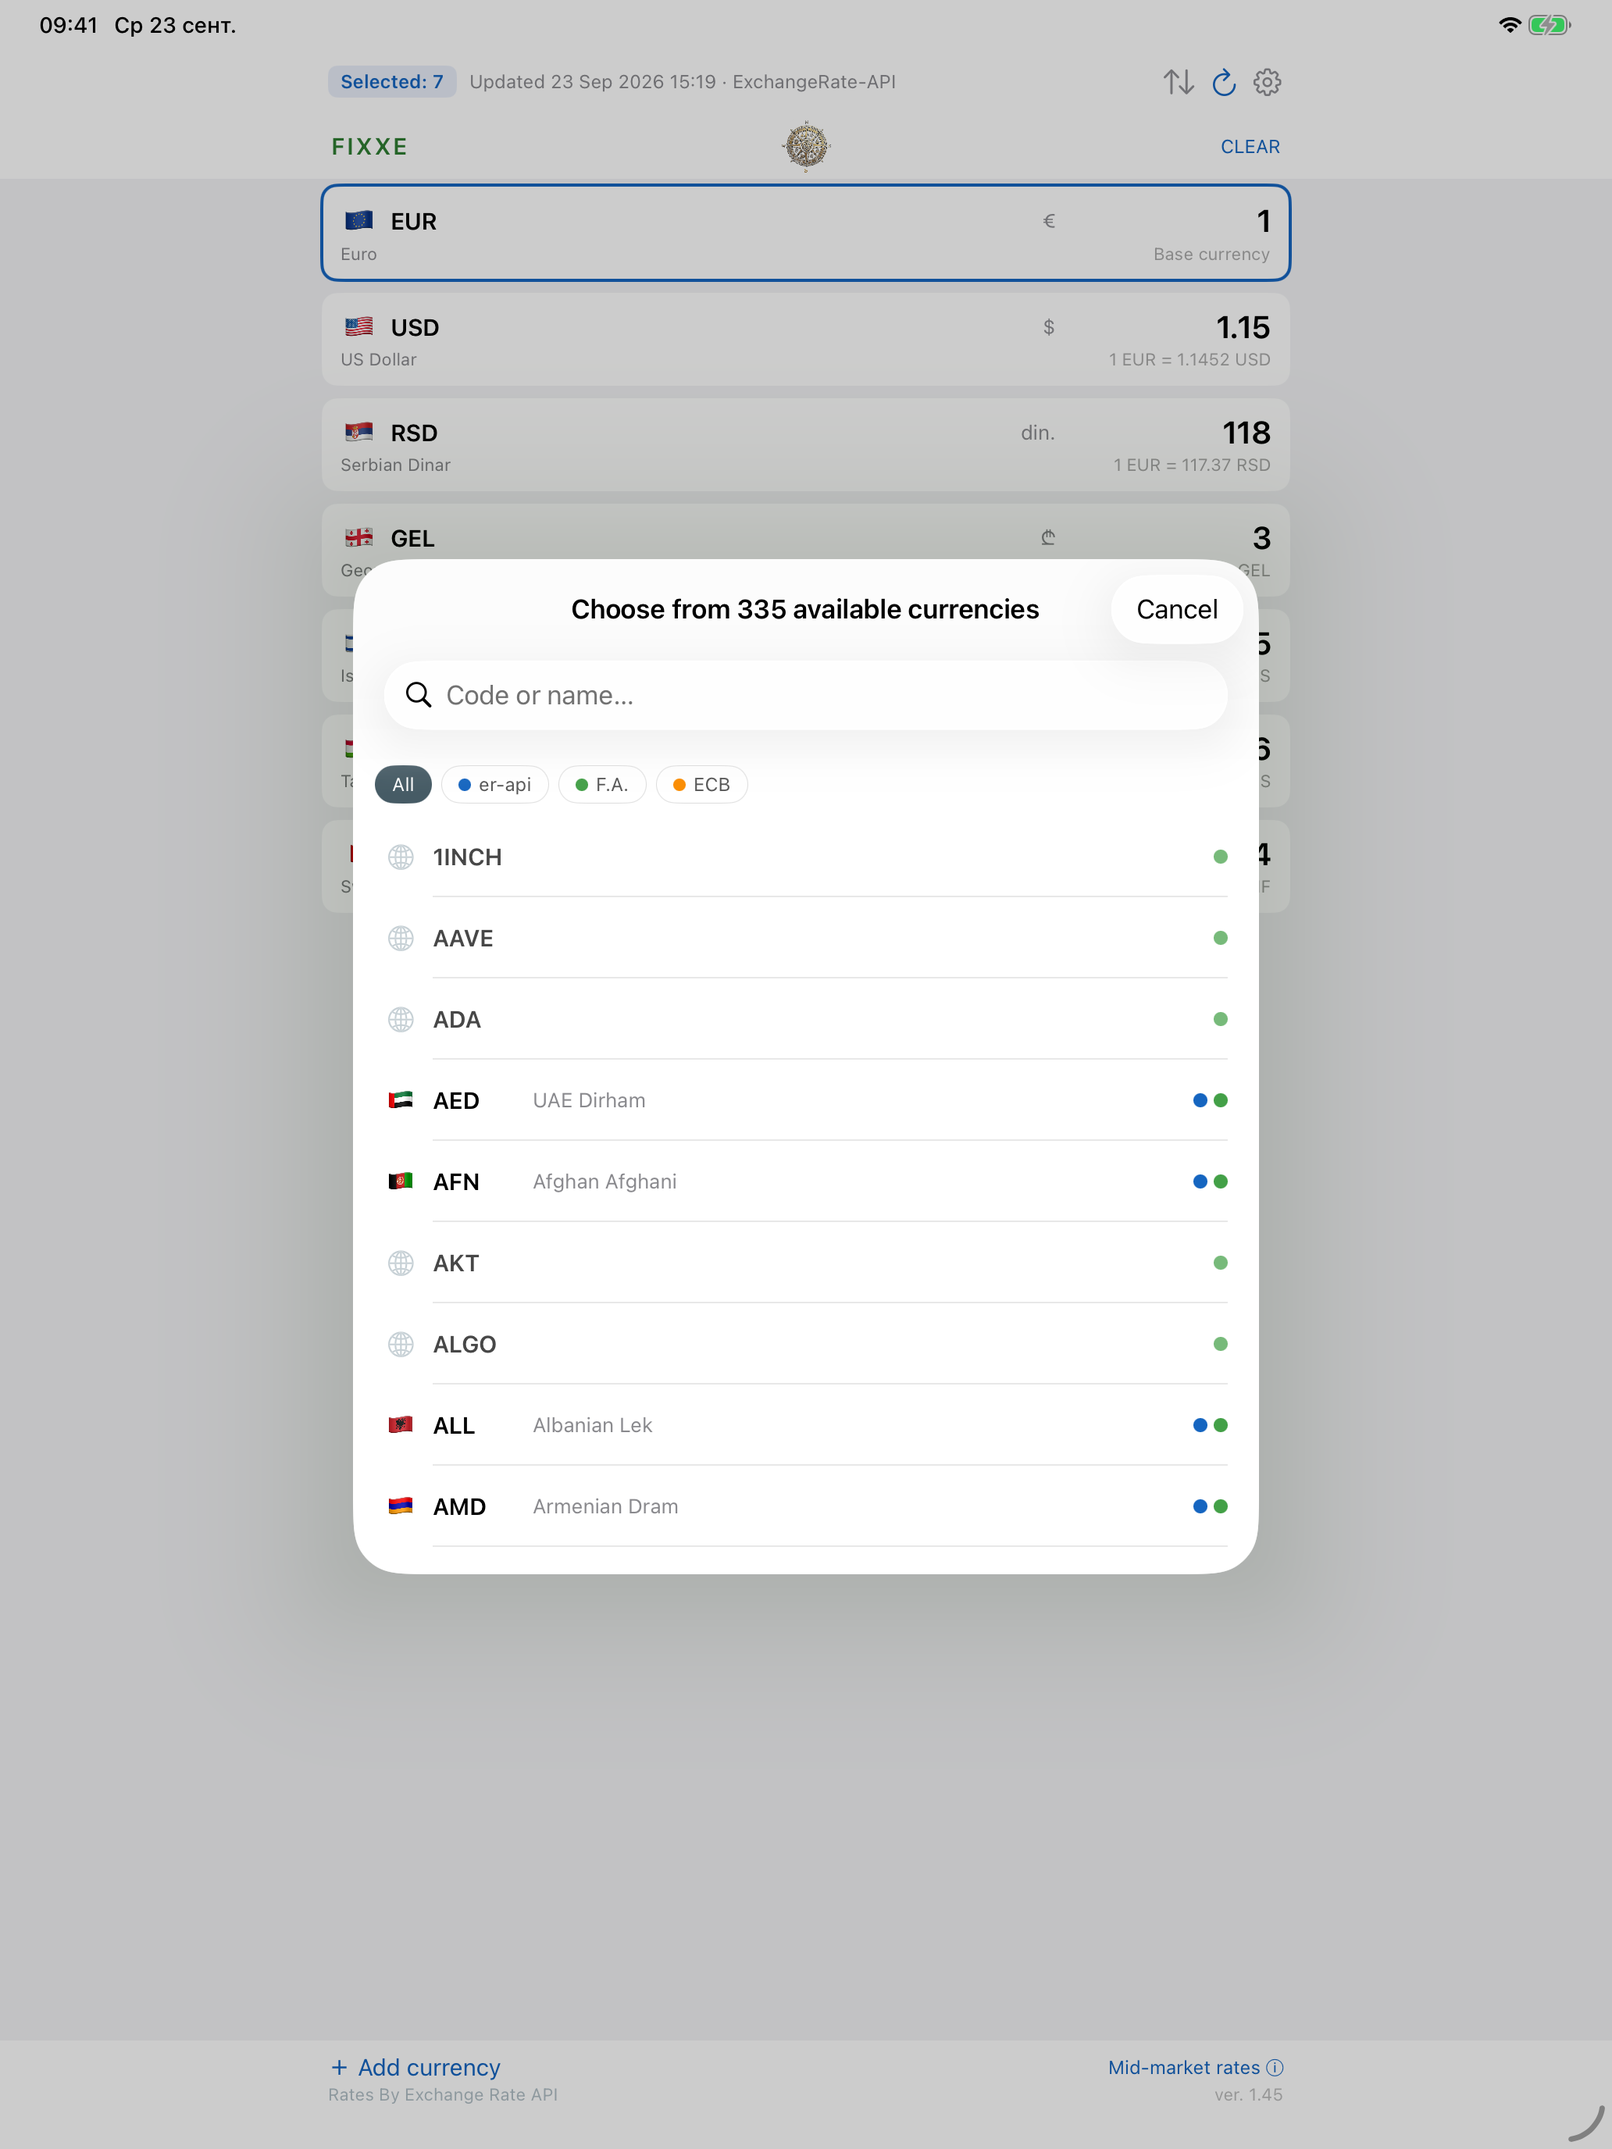
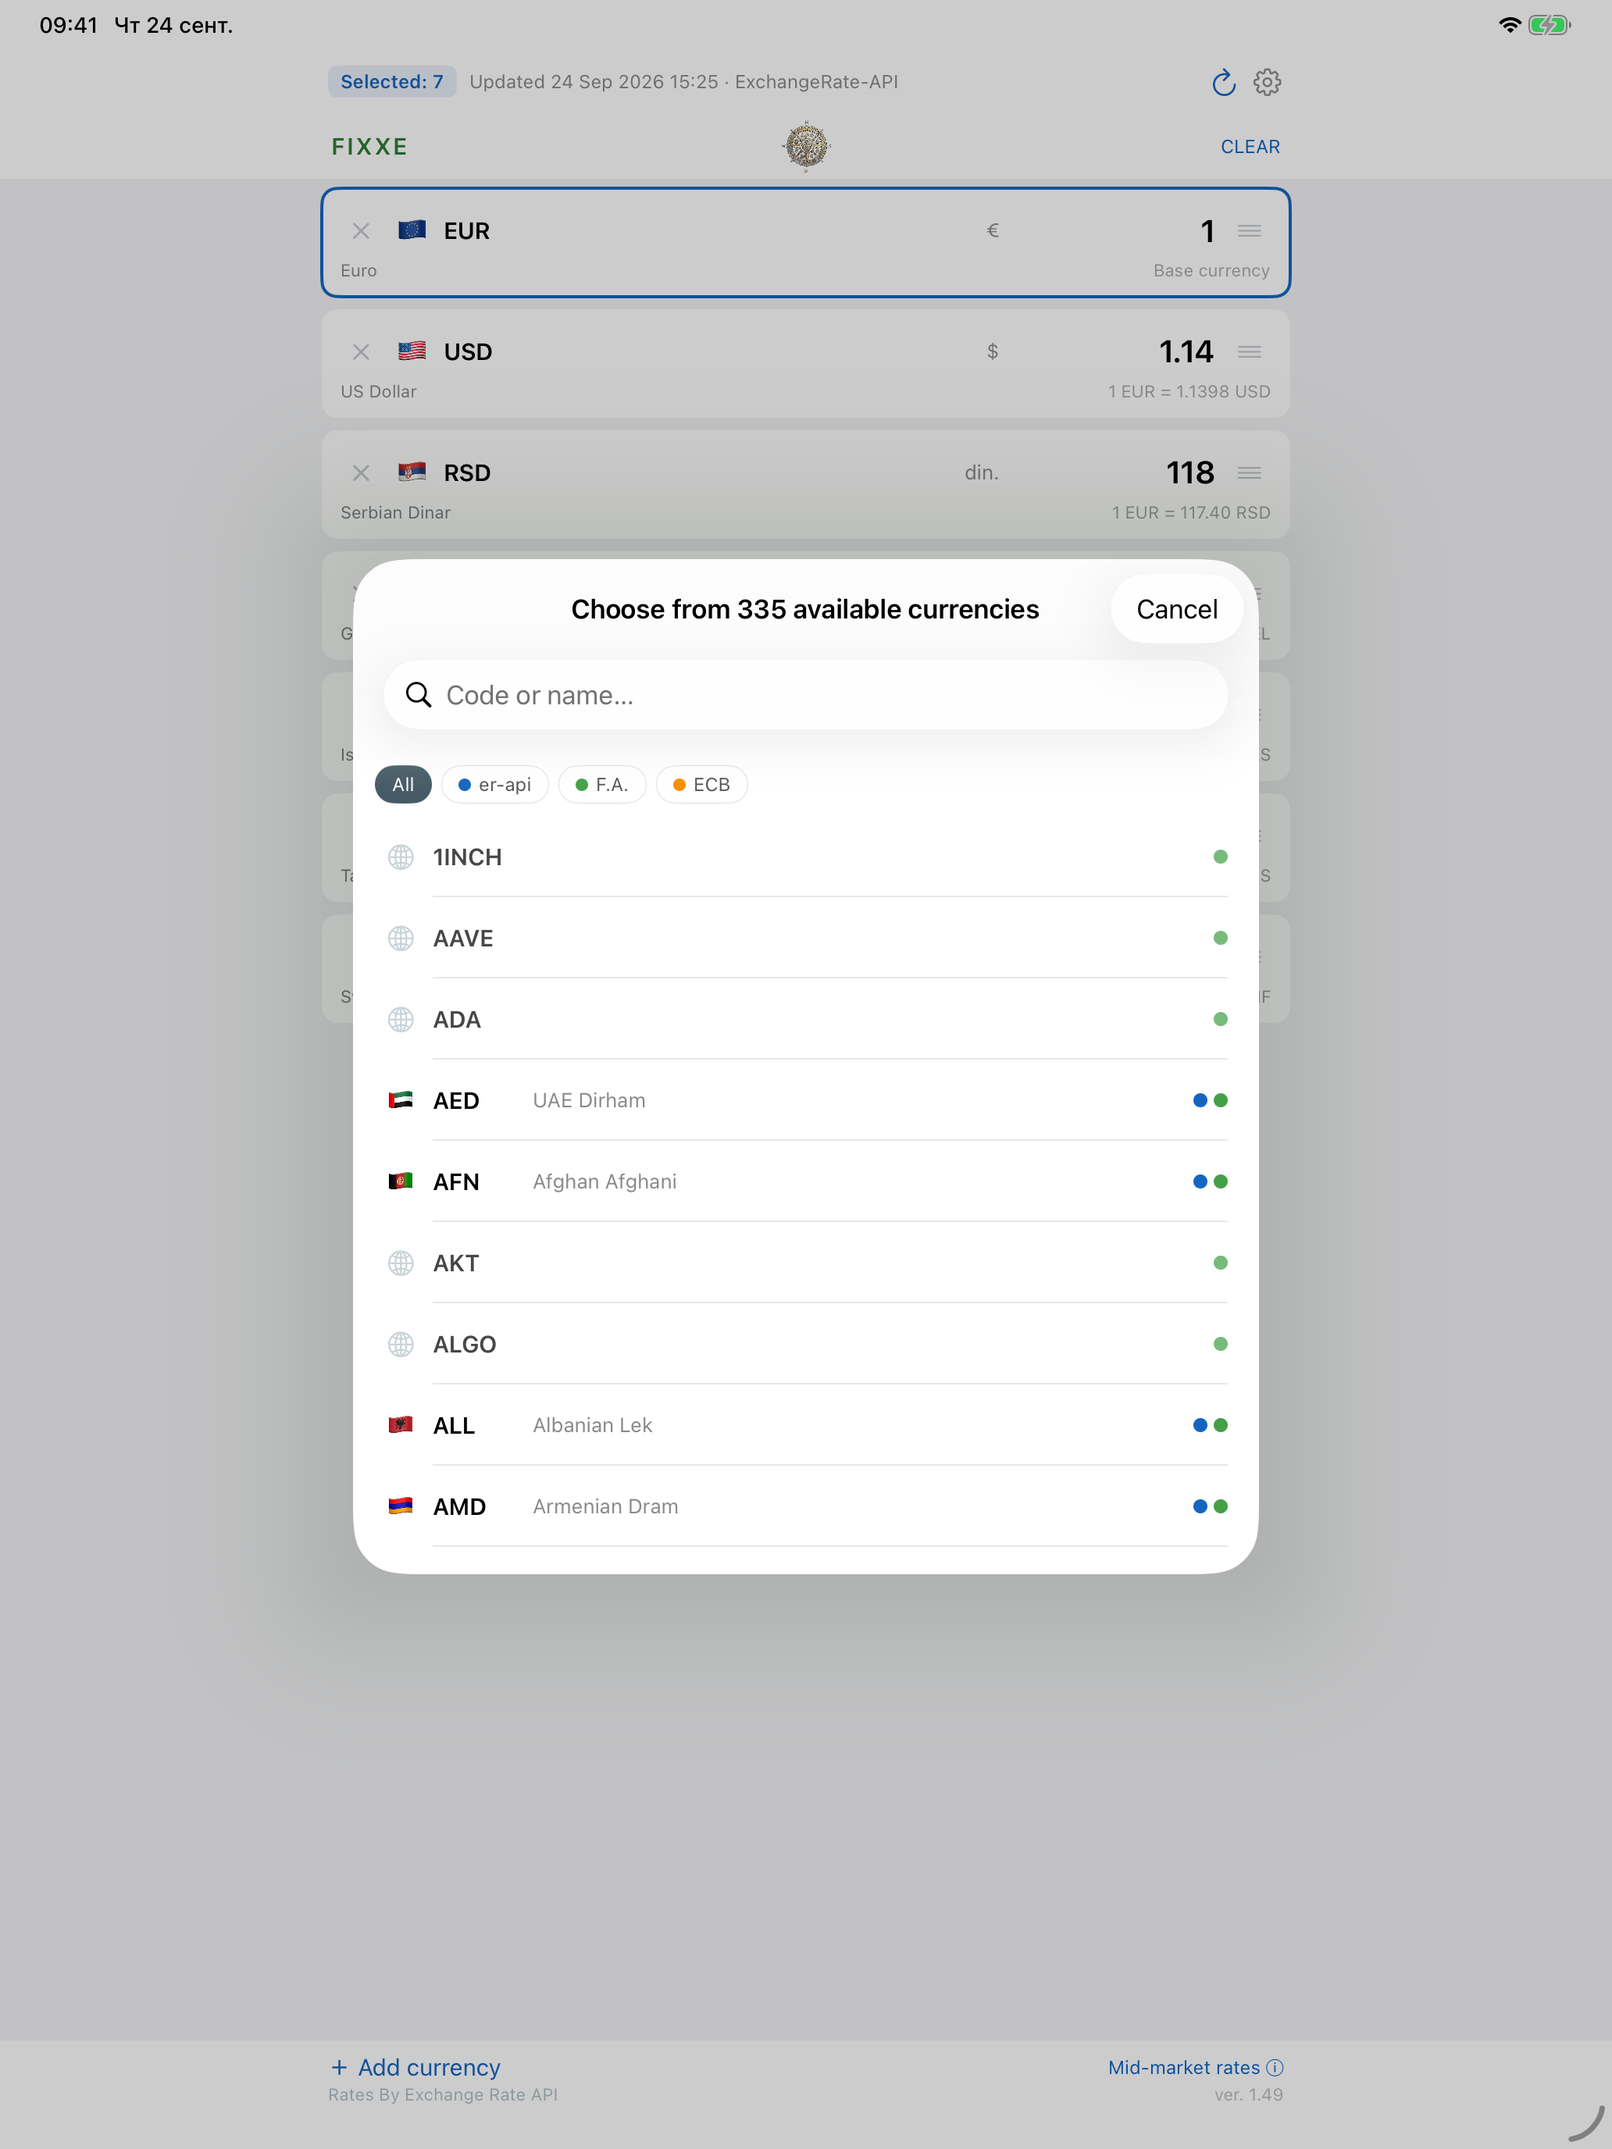
v49: iOS: перетаскивание за ручку без режима редактирования + кнопка удаления в строке

diff --git a/ios/FIXXE/Views/ContentView.swift b/ios/FIXXE/Views/ContentView.swift
@@ -8,7 +8,7 @@ struct ContentView: View {
     @State private var showSettings = false
     @State private var showInfo = false
     @State private var deleteCandidate: String?
-    @State private var editMode: EditMode = .inactive
+    @State private var dragged: String?
 
     var body: some View {
         VStack(spacing: 0) {
@@ -25,7 +25,6 @@ struct ContentView: View {
             await vm.loadSourceCodes()
             if ScreenshotArgs.openAdd { showAdd = true }
             if ScreenshotArgs.openSettings { showSettings = true }
-            if ScreenshotArgs.openReorder { editMode = .active }
             if ScreenshotArgs.openInfo { showInfo = true }
         }
         .sheet(isPresented: $showAdd) { AddCurrencyView(vm: vm) }
@@ -61,14 +60,6 @@ struct ContentView: View {
             .font(.caption).foregroundColor(.secondary)
             .frame(maxWidth: .infinity, alignment: .leading)
             if vm.isLoading { ProgressView().scaleEffect(0.8) }
-            Button {
-                focusedCode = nil
-                withAnimation { editMode = editMode.isEditing ? .inactive : .active }
-            } label: {
-                Image(systemName: editMode.isEditing ? "checkmark" : "arrow.up.arrow.down")
-                    .foregroundColor(editMode.isEditing ? .brandBlue : .gray)
-            }
-            .accessibilityLabel(L10n.t("reorder"))
             Button { Task { await vm.refresh() } } label: {
                 Image(systemName: "arrow.clockwise").foregroundColor(.brandBlue)
             }
@@ -101,28 +92,24 @@ struct ContentView: View {
     }
 
     private var currencyList: some View {
-        List {
-            ForEach(vm.currencies, id: \.self) { code in
-                CurrencyRowView(vm: vm, code: code, focusedCode: $focusedCode)
-                    .listRowInsets(EdgeInsets(top: 4, leading: 10, bottom: 4, trailing: 10))
-                    .listRowBackground(Color.clear)
-                    .listRowSeparator(.hidden)
-                    .swipeActions(edge: .trailing) {
-                        Button(role: .destructive) { deleteCandidate = code } label: {
-                            Image(systemName: "trash")
-                        }
-                    }
+        // Не List: он перехватывает drag & drop и отдаёт перестановку только
+        // своему .onMove, который работает лишь в режиме редактирования.
+        // На LazyVStack перетаскивание за ручку работает сразу, как в Android.
+        ScrollView {
+            LazyVStack(spacing: 8) {
+                ForEach(vm.currencies, id: \.self) { code in
+                    CurrencyRowView(vm: vm, code: code, focusedCode: $focusedCode,
+                                    dragged: $dragged, onDelete: { deleteCandidate = code })
+                }
             }
-            .onMove { from, to in vm.move(from: from, to: to) }
+            .padding(.horizontal, 10)
+            .padding(.vertical, 6)
         }
-        .listStyle(.plain)
-        .compatHideListBackground()
         .readableWidth()
         .background(
-            // тап по фону списка — ещё один способ убрать клавиатуру
+            // тап по фону — ещё один способ убрать клавиатуру
             Color.bgGray.onTapGesture { focusedCode = nil }
         )
-        .environment(\.editMode, $editMode)
     }
 
     private var footer: some View {

diff --git a/ios/FIXXE/Views/CurrencyRowView.swift b/ios/FIXXE/Views/CurrencyRowView.swift
@@ -1,21 +1,35 @@
 import SwiftUI
+import UniformTypeIdentifiers
 
 struct CurrencyRowView: View {
     @ObservedObject var vm: ConverterViewModel
     let code: String
     var focusedCode: FocusState<String?>.Binding
+    @Binding var dragged: String?
+    let onDelete: () -> Void
 
     private var isActive: Bool { vm.activeCode == code }
 
     var body: some View {
         VStack(spacing: 2) {
             HStack(spacing: 8) {
+                Button(action: onDelete) {
+                    Image(systemName: "xmark")
+                        .font(.system(size: 13, weight: .medium))
+                        .foregroundColor(Color(hex: "C4C9D0"))
+                        .frame(width: 26, height: 30)
+                        .contentShape(Rectangle())
+                }
+                .buttonStyle(.plain)
+                .accessibilityIdentifier("delete-\(code)")
+                .accessibilityLabel(L10n.t("delete"))
                 FlagView(code: code, size: 24)
                 Text(code).font(.subheadline.bold())
                 Spacer()
                 Text(CurrencyData.symbol(code))
                     .font(.footnote).foregroundColor(.gray)
                 amountField
+                dragHandle
             }
             HStack {
                 Text(CurrencyData.displayName(code) ?? "")
@@ -31,6 +45,26 @@ struct CurrencyRowView: View {
         .overlay(RoundedRectangle(cornerRadius: 10)
             .stroke(isActive ? Color.brandBlue : .clear, lineWidth: 2))
         .contentShape(Rectangle())
+        .onDrop(of: [UTType.text], delegate: RowDropDelegate(target: code, dragged: $dragged, vm: vm))
+    }
+
+    /// Ручка перетаскивания — отдельная зона, как в Android-версии.
+    /// `.onMove` в SwiftUI требует режима редактирования, поэтому порядок
+    /// меняем через drag & drop, а тащим строго за этот значок, чтобы жест
+    /// не мешал ни вводу суммы, ни прокрутке списка.
+    private var dragHandle: some View {
+        Image(systemName: "line.3.horizontal")
+            .font(.system(size: 15, weight: .regular))
+            .foregroundColor(Color(hex: "C4C9D0"))
+            .frame(width: 28, height: 34)
+            .contentShape(Rectangle())
+            .accessibilityIdentifier("drag-\(code)")
+            .accessibilityLabel(L10n.t("reorder"))
+            .onDrag {
+                dragged = code
+                focusedCode.wrappedValue = nil      // клавиатура мешает перетаскиванию
+                return NSItemProvider(object: code as NSString)
+            }
     }
 
     @ViewBuilder private var amountField: some View {

diff --git a/ios/FIXXEUITests/ReorderTests.swift b/ios/FIXXEUITests/ReorderTests.swift
@@ -1,0 +1,47 @@
+import XCTest
+
+/// Порядок валют меняется перетаскиванием за ручку справа, без режима
+/// редактирования. Тест не зависит от того, в каком порядке строки лежат
+/// сейчас: порядок сохраняется между запусками.
+final class ReorderTests: XCTestCase {
+
+    private func handle(_ app: XCUIApplication, _ code: String) -> XCUIElement {
+        app.descendants(matching: .any).matching(identifier: "drag-\(code)").firstMatch
+    }
+
+    /// коды строк сверху вниз
+    private func order(_ app: XCUIApplication) -> [String] {
+        ["EUR","USD","RSD","GEL","ILS","TJS","CHF"]
+            .map { ($0, handle(app, $0)) }
+            .filter { $0.1.exists }
+            .sorted { $0.1.frame.midY < $1.1.frame.midY }
+            .map { $0.0 }
+    }
+
+    func testDragReordersWithoutEditMode() {
+        let app = XCUIApplication()
+        app.launch()
+
+        let usd = handle(app, "USD")
+        let rsd = handle(app, "RSD")
+        XCTAssertTrue(usd.waitForExistence(timeout: 20), "список не загрузился")
+        XCTAssertTrue(rsd.exists, "нет строки RSD")
+
+        let usdWasAbove = usd.frame.midY < rsd.frame.midY
+        let (top, bottom) = usdWasAbove ? (usd, rsd) : (rsd, usd)
+
+        // drag & drop требует медленного жеста с удержанием в конце,
+        // иначе система не успевает принять drop
+        let start = top.coordinate(withNormalizedOffset: CGVector(dx: 0.5, dy: 0.5))
+        let end = bottom.coordinate(withNormalizedOffset: CGVector(dx: 0.5, dy: 0.5))
+        start.press(forDuration: 1.2, thenDragTo: end, withVelocity: .slow, thenHoldForDuration: 1.0)
+        Thread.sleep(forTimeInterval: 2)
+
+        let usdNowAbove = handle(app, "USD").frame.midY < handle(app, "RSD").frame.midY
+        XCTAssertNotEqual(usdWasAbove, usdNowAbove,
+                          "после перетаскивания строки должны были поменяться местами")
+
+        let shot = XCTAttachment(screenshot: XCUIScreen.main.screenshot())
+        shot.lifetime = .keepAlways; shot.name = "after-drag"; add(shot)
+    }
+}

diff --git a/ios/FIXXE/Views/RowDropDelegate.swift b/ios/FIXXE/Views/RowDropDelegate.swift
@@ -1,0 +1,25 @@
+import SwiftUI
+import UniformTypeIdentifiers
+
+/// Перетаскивание строк без режима редактирования.
+///
+/// `.onMove` в SwiftUI работает только когда список в EditMode, а там нельзя
+/// вводить суммы. Поэтому порядок меняется через drag & drop: тащить можно за
+/// левую часть строки (флаг и код), поле ввода жест не перехватывает.
+struct RowDropDelegate: DropDelegate {
+    let target: String
+    @Binding var dragged: String?
+    let vm: ConverterViewModel
+
+    func dropEntered(info: DropInfo) {
+        guard let dragged, dragged != target else { return }
+        vm.move(dragged, before: target)
+    }
+
+    func dropUpdated(info: DropInfo) -> DropProposal? { DropProposal(operation: .move) }
+
+    func performDrop(info: DropInfo) -> Bool {
+        dragged = nil
+        return true
+    }
+}

diff --git a/ios/FIXXE/ViewModels/ConverterViewModel.swift b/ios/FIXXE/ViewModels/ConverterViewModel.swift
@@ -100,6 +100,16 @@ final class ConverterViewModel: ObservableObject {
 
     func move(from: IndexSet, to: Int) { currencies.move(fromOffsets: from, toOffset: to) }
 
+    /// Перестановка перетаскиванием: код `dragged` встаёт на место кода `target`.
+    func move(_ dragged: String, before target: String) {
+        guard dragged != target,
+              let from = currencies.firstIndex(of: dragged),
+              let to = currencies.firstIndex(of: target) else { return }
+        withAnimation {
+            currencies.move(fromOffsets: IndexSet(integer: from), toOffset: to > from ? to + 1 : to)
+        }
+    }
+
     // Какие источники (индексы 0..2) содержат код
     func sourcesWith(_ code: String) -> [Int] {
         RatesService.sources.enumerated().compactMap { i, s in

diff --git a/ios/FIXXE/Support/UIHelpers.swift b/ios/FIXXE/Support/UIHelpers.swift
@@ -27,7 +27,6 @@ enum ScreenshotArgs {
     private static var args: [String] { ProcessInfo.processInfo.arguments }
     static var openAdd: Bool { args.contains("-screen-add") }
     static var openSettings: Bool { args.contains("-screen-settings") }
-    static var openReorder: Bool { args.contains("-screen-reorder") }
     static var openInfo: Bool { args.contains("-screen-info") }
     static var initialQuery: String {
         guard let i = args.firstIndex(of: "-screen-query"), i + 1 < args.count else { return "" }
@@ -41,7 +40,6 @@ enum ScreenshotArgs {
 #else
     static var openAdd: Bool { false }
     static var openSettings: Bool { false }
-    static var openReorder: Bool { false }
     static var openInfo: Bool { false }
     static var initialQuery: String { "" }
     static var initialFilter: Int { -1 }

diff --git a/web/sw.js b/web/sw.js
@@ -1,5 +1,5 @@
 // FIXXE service worker — offline app shell + fresh rates
-const CACHE = 'fixe-v48';
+const CACHE = 'fixe-v49';
 const SHELL = [
   './', './index.html', './styles.css', './app.js',
   './i18n.js', './currency-data.js', './manifest.webmanifest',

diff --git a/web/app.js b/web/app.js
@@ -1,5 +1,5 @@
 'use strict';
-const APP_VERSION = '1.48';
+const APP_VERSION = '1.49';
 
 /* ---------- Persistence ---------- */
 const store = {
